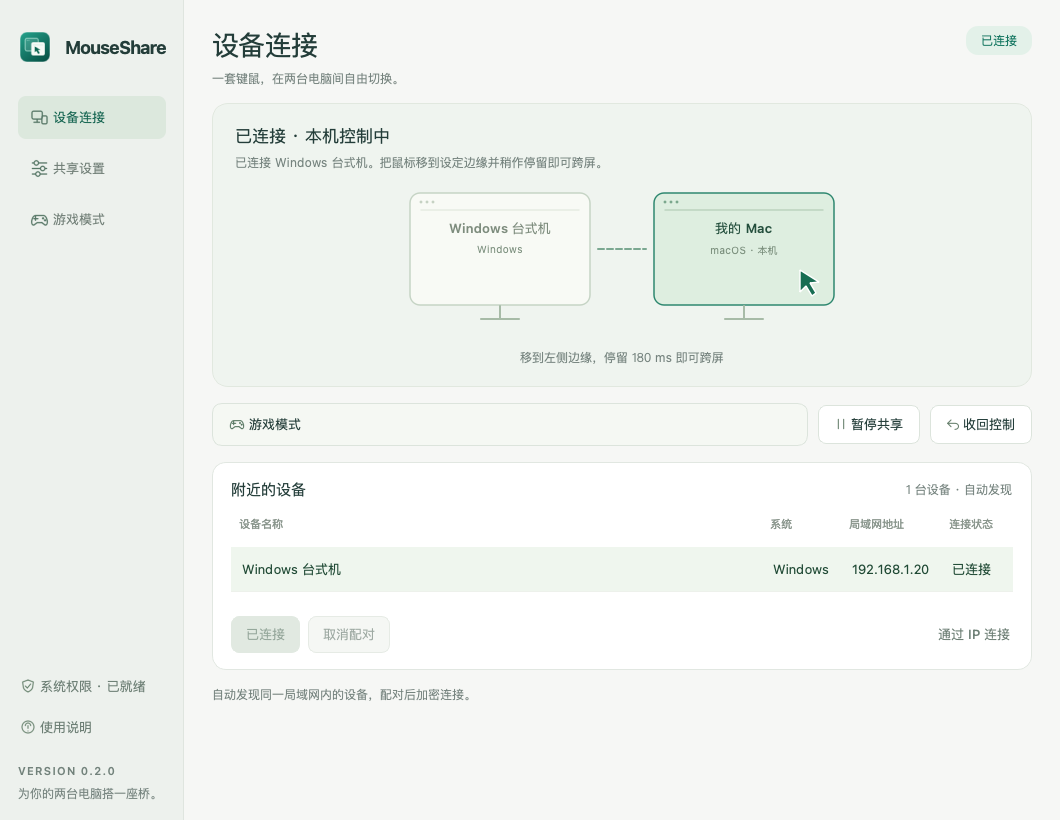
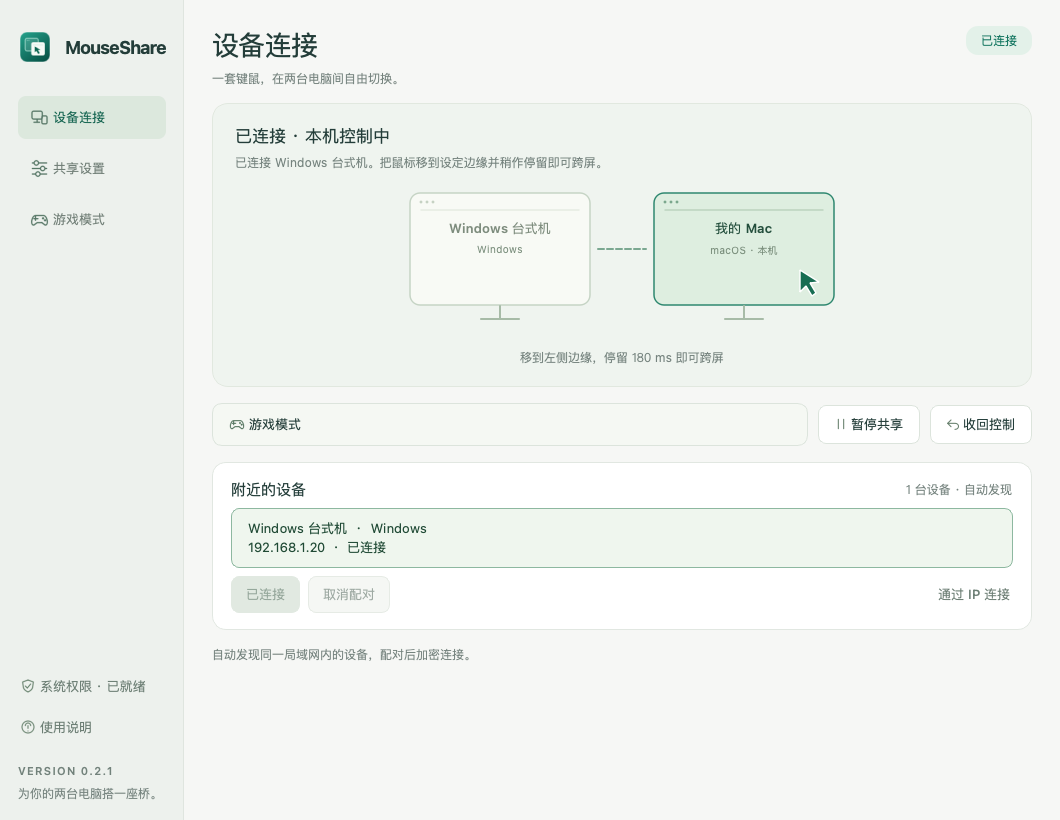
Use accessible device cards and finish the v0.2.1 desktop redesign

diff --git a/mouseshare/app.py b/mouseshare/app.py
@@ -8,12 +8,12 @@ import sys
 import time
 
 from PySide6.QtCore import QObject, QSize, QTimer, Qt, QUrl, Signal
-from PySide6.QtGui import QAction, QColor, QDesktopServices
+from PySide6.QtGui import QAction, QDesktopServices
 from PySide6.QtNetwork import QLocalServer, QLocalSocket
-from PySide6.QtWidgets import (QAbstractItemView, QApplication, QCheckBox, QComboBox, QDialog,
-                               QDoubleSpinBox, QFormLayout, QFrame, QHBoxLayout, QHeaderView,
+from PySide6.QtWidgets import (QApplication, QCheckBox, QComboBox, QDialog,
+                               QDoubleSpinBox, QFormLayout, QFrame, QHBoxLayout,
                                QLabel, QLineEdit, QMainWindow, QMenu, QMessageBox, QPushButton,
-                               QSpinBox, QSystemTrayIcon, QTableWidget, QTableWidgetItem, QStackedWidget, QButtonGroup,
+                               QSpinBox, QSystemTrayIcon, QStackedWidget, QButtonGroup,
                                QVBoxLayout, QWidget, QScrollArea)
 
 from . import __version__
@@ -207,23 +207,13 @@ class MainWindow(QMainWindow):
         self.discovery_label = text_label("自动发现已开启", "hint")
         top.addWidget(self.discovery_label)
         body.addLayout(top)
-        self.table = QTableWidget(0, 4)
-        self.table.setHorizontalHeaderLabels(["设备名称", "系统", "局域网地址", "连接状态"])
-        self.table.horizontalHeader().setSectionResizeMode(0, QHeaderView.ResizeMode.Stretch)
-        self.table.horizontalHeader().setSectionResizeMode(1, QHeaderView.ResizeMode.ResizeToContents)
-        self.table.horizontalHeader().setSectionResizeMode(2, QHeaderView.ResizeMode.ResizeToContents)
-        self.table.horizontalHeader().setSectionResizeMode(3, QHeaderView.ResizeMode.ResizeToContents)
-        self.table.horizontalHeader().setDefaultAlignment(Qt.AlignmentFlag.AlignLeft)
-        self.table.verticalHeader().hide()
-        self.table.verticalHeader().setDefaultSectionSize(45)
-        self.table.setShowGrid(False)
-        self.table.setSelectionBehavior(QAbstractItemView.SelectionBehavior.SelectRows)
-        self.table.setSelectionMode(QAbstractItemView.SelectionMode.SingleSelection)
-        self.table.setEditTriggers(QAbstractItemView.EditTrigger.NoEditTriggers)
-        self.table.setFixedHeight(100)
-        self.table.doubleClicked.connect(self.connect_selected)
-        self.table.itemSelectionChanged.connect(self.update_actions)
-        body.addWidget(self.table)
+        self.peer_buttons = {}
+        self.peer_group = QButtonGroup(self)
+        self.peer_group.setExclusive(True)
+        self.peer_group.buttonClicked.connect(self.update_actions)
+        self.peer_list = QVBoxLayout()
+        self.peer_list.setSpacing(6)
+        body.addLayout(self.peer_list)
         self.empty_label = text_label("在另一台电脑上打开 MouseShare，设备会自动出现在这里。", "hint", True)
         self.empty_label.setContentsMargins(4, 18, 4, 18)
         body.addWidget(self.empty_label)
@@ -481,28 +471,44 @@ class MainWindow(QMainWindow):
         rows = {key: dict(value, id=key, os="", seen=0) for key, value in trusted.items()}
         rows.update({key: peer for key, peer in self.peers.items()
                      if time.monotonic() - peer["seen"] < 8})
-        self.row_ids = list(rows)
-        self.table.setRowCount(len(rows))
-        for row, (peer_id, peer) in enumerate(rows.items()):
+        # Native buttons avoid Qt's Cocoa table selected-children bridge crash.
+        # Keep them stable through periodic discovery updates and retain selection.
+        for peer_id in list(self.peer_buttons):
+            if peer_id not in rows:
+                button = self.peer_buttons.pop(peer_id)
+                self.peer_group.removeButton(button)
+                self.peer_list.removeWidget(button)
+                button.hide()
+                button.deleteLater()
+        for peer_id, peer in rows.items():
+            button = self.peer_buttons.get(peer_id)
+            if button is None:
+                button = QPushButton()
+                button.setObjectName("peer")
+                button.setCheckable(True)
+                button.setMinimumHeight(68)
+                self.peer_buttons[peer_id] = button
+                self.peer_group.addButton(button)
+                self.peer_list.addWidget(button)
             status = "已配对" if peer_id in trusted else "待配对"
             session = self.network.session
             if session and session.peer_id == peer_id:
                 status = "已连接" if session.connected else "连接中"
             elif not peer.get("seen"):
                 status = "离线 · 已配对"
-            for column, value in enumerate([peer.get("name", "电脑"),
-                                            {"Darwin": "macOS", "Windows": "Windows"}.get(peer.get("os"), "—"),
-                                            peer.get("host", ""), status]):
-                item = QTableWidgetItem(str(value))
-                if column == 3:
-                    item.setForeground(QColor("#18775b" if status == "已连接" else "#819183"))
-                self.table.setItem(row, column, item)
+            os_name = {"Darwin": "macOS", "Windows": "Windows"}.get(peer.get("os"), "电脑")
+            name = peer.get("name", "电脑")
+            short_name = name if len(name) <= 30 else name[:29] + "…"
+            label = f"{short_name}  ·  {os_name}\n{peer.get('host', '')}  ·  {status}"
+            button.setText(label)
+            full_label = f"{name}，{os_name}，{peer.get('host', '')}，{status}"
+            button.setAccessibleName(full_label)
+            button.setToolTip(full_label)
             if peer_id == selected:
-                self.table.selectRow(row)
-        self.table.setVisible(bool(rows))
+                button.setChecked(True)
         self.empty_label.setVisible(not rows)
-        if rows and self.table.currentRow() < 0:
-            self.table.selectRow(0)
+        if rows and not self.peer_group.checkedButton():
+            next(iter(self.peer_buttons.values())).setChecked(True)
         self.discovery_label.setText(f"{len(rows)} 台设备 · 自动发现" if rows else "正在自动发现…")
         self.update_map()
         self.update_actions()
@@ -511,8 +517,8 @@ class MainWindow(QMainWindow):
                 self.dialogs[key][0].reject()
 
     def selected_id(self):
-        row = self.table.currentRow() if hasattr(self, "table") else -1
-        return self.row_ids[row] if hasattr(self, "row_ids") and 0 <= row < len(self.row_ids) else None
+        return next((peer_id for peer_id, button in getattr(self, "peer_buttons", {}).items()
+                     if button.isChecked()), None)
 
     def connect_selected(self):
         peer_id = self.selected_id()

diff --git a/mouseshare/ui.py b/mouseshare/ui.py
@@ -1,7 +1,9 @@
 """Presentation-only desktop widgets. No input capture or network behavior lives here."""
+from pathlib import Path
+
 from PySide6.QtCore import QPointF, QRectF, Qt
 from PySide6.QtGui import QColor, QFont, QPainter, QPainterPath, QPalette, QPen
-from PySide6.QtWidgets import QFrame, QLabel, QVBoxLayout, QWidget
+from PySide6.QtWidgets import QFrame, QLabel, QProxyStyle, QStyle, QVBoxLayout, QWidget
 
 STYLE = """
 QWidget { color: #233d39; font-size: 13px; }
@@ -42,16 +44,20 @@ QLineEdit, QComboBox, QSpinBox, QDoubleSpinBox { background: #fafcf9; color: #29
     selection-background-color: #c6e4d4; selection-color: #174a36; }
 QLineEdit:focus, QComboBox:focus, QSpinBox:focus, QDoubleSpinBox:focus { border-color: #298870; }
 QComboBox QAbstractItemView { background: #ffffff; color: #29433a; selection-background-color: #e0ede2; }
+QComboBox::drop-down { border: 0; width: 28px; }
+QComboBox::down-arrow { image: url("@assets@/chevron-down.png"); width: 14px; height: 14px; }
+QSpinBox::up-button, QDoubleSpinBox::up-button { border: 0; width: 22px; subcontrol-origin: border; subcontrol-position: top right; }
+QSpinBox::down-button, QDoubleSpinBox::down-button { border: 0; width: 22px; subcontrol-origin: border; subcontrol-position: bottom right; }
+QSpinBox::up-arrow, QDoubleSpinBox::up-arrow { image: url("@assets@/chevron-up.png"); width: 12px; height: 12px; }
+QSpinBox::down-arrow, QDoubleSpinBox::down-arrow { image: url("@assets@/chevron-down.png"); width: 12px; height: 12px; }
 QScrollArea { background: transparent; border: 0; }
 QScrollBar:vertical { background: transparent; width: 8px; margin: 3px 1px; }
 QScrollBar::handle:vertical { background: #cbd6cb; border-radius: 3px; min-height: 28px; }
 QScrollBar::add-line:vertical, QScrollBar::sub-line:vertical { height: 0; }
 QScrollBar::add-page:vertical, QScrollBar::sub-page:vertical { background: transparent; }
-QTableWidget { background: #ffffff; border: 0; gridline-color: #edf1eb; outline: 0;
-    selection-background-color: #eff6ee; selection-color: #204a35; }
-QTableWidget::item { padding: 8px; border-bottom: 1px solid #edf1eb; }
-QTableWidget::item:selected { background: #eff6ee; color: #204a35; }
-QHeaderView::section { background: #ffffff; border: 0; color: #8a968d; padding: 8px; font-size: 11px; text-align: left; }
+QPushButton#peer { text-align: left; background: #fafcf9; padding: 10px 16px; font-weight: 400; }
+QPushButton#peer:checked { background: #eff6ee; border-color: #8db8a0; color: #204a35; }
+QPushButton#peer:hover, QPushButton#peer:focus { border-color: #20836c; }
 QCheckBox { spacing: 10px; padding: 5px 0; }
 QMenu { background: #ffffff; border: 1px solid #dae3da; padding: 5px; }
 QMenu::item { padding: 9px 20px; border-radius: 4px; }
@@ -60,10 +66,49 @@ QToolTip { color: #ffffff; background: #244b3a; border: 0; padding: 6px; }
 """
 
 
+class DesktopStyle(QProxyStyle):
+    """Paint essential indicators without an optional SVG image plugin."""
+    def __init__(self):
+        super().__init__("Fusion")
+
+    def drawPrimitive(self, element, option, painter, widget=None):
+        pe = QStyle.PrimitiveElement
+        arrows = {pe.PE_IndicatorArrowDown, pe.PE_IndicatorArrowUp,
+                  pe.PE_IndicatorSpinDown, pe.PE_IndicatorSpinUp}
+        if element != pe.PE_IndicatorCheckBox and element not in arrows:
+            return super().drawPrimitive(element, option, painter, widget)
+        painter.save()
+        painter.setRenderHint(QPainter.RenderHint.Antialiasing)
+        enabled = bool(option.state & QStyle.StateFlag.State_Enabled)
+        rect = QRectF(option.rect)
+        if element == pe.PE_IndicatorCheckBox:
+            checked = bool(option.state & QStyle.StateFlag.State_On)
+            painter.setPen(QPen(QColor("#167c67" if checked and enabled else "#b9c9bf"), 1.2))
+            painter.setBrush(QColor("#167c67" if checked and enabled else "#fafcf9"))
+            painter.drawRoundedRect(rect.adjusted(1, 1, -1, -1), 3, 3)
+            if checked:
+                painter.setPen(QPen(QColor("#ffffff" if enabled else "#a7b6ac"), 1.7,
+                                    Qt.PenStyle.SolidLine, Qt.PenCapStyle.RoundCap, Qt.PenJoinStyle.RoundJoin))
+                path = QPainterPath(QPointF(rect.left() + rect.width() * .25, rect.center().y()))
+                path.lineTo(rect.left() + rect.width() * .44, rect.top() + rect.height() * .69)
+                path.lineTo(rect.left() + rect.width() * .76, rect.top() + rect.height() * .33)
+                painter.drawPath(path)
+        else:
+            x, y = rect.center().x(), rect.center().y()
+            direction = -1 if element in {pe.PE_IndicatorArrowUp, pe.PE_IndicatorSpinUp} else 1
+            painter.setPen(QPen(QColor("#617c6f" if enabled else "#b7c4ba"), 1.4,
+                                Qt.PenStyle.SolidLine, Qt.PenCapStyle.RoundCap, Qt.PenJoinStyle.RoundJoin))
+            path = QPainterPath(QPointF(x - 3, y - direction * 1.5))
+            path.lineTo(x, y + direction * 1.5)
+            path.lineTo(x + 3, y - direction * 1.5)
+            painter.drawPath(path)
+        painter.restore()
+
+
 def apply_theme(app):
     # Use a complete light palette so native controls also remain readable when
     # the operating system is in dark mode.
-    app.setStyle("Fusion")
+    app.setStyle(DesktopStyle())
     palette = QPalette()
     for role, color in {
         "Window": "#f6f7f5", "WindowText": "#233d39", "Base": "#ffffff",
@@ -76,7 +121,7 @@ def apply_theme(app):
     for role in (QPalette.ColorRole.Text, QPalette.ColorRole.ButtonText, QPalette.ColorRole.WindowText):
         palette.setColor(QPalette.ColorGroup.Disabled, role, QColor("#9ba69b"))
     app.setPalette(palette)
-    app.setStyleSheet(STYLE)
+    app.setStyleSheet(STYLE.replace("@assets@", (Path(__file__).parent / "assets").as_posix()))
 
 
 def text_label(text, role="", wrap=False):

diff --git a/scripts/build.py b/scripts/build.py
@@ -72,7 +72,7 @@ def main():
                "--name", "MouseShare", "--noupx", "--exclude-module", "tkinter",
                "--exclude-module", "unittest", "--icon", str(ASSETS / (
                    "MouseShare.icns" if sys.platform == "darwin" else "MouseShare.ico")),
-               "--collect-submodules", "mouseshare"]
+               "--collect-submodules", "mouseshare", "--collect-data", "mouseshare"]
     if sys.platform == "darwin":
         command += ["--osx-bundle-identifier", "io.github.makesail.mouseshare",
                     "--hidden-import", "ApplicationServices", "--hidden-import", "CoreFoundation"]
@@ -83,7 +83,7 @@ def main():
         import plistlib
         info = bundle / "Contents/Info.plist"
         content = plistlib.loads(info.read_bytes())
-        content.update({"CFBundleShortVersionString": "0.2.0", "CFBundleVersion": "4",
+        content.update({"CFBundleShortVersionString": "0.2.1", "CFBundleVersion": "5",
                         "LSMinimumSystemVersion": "13.0",
                         "NSLocalNetworkUsageDescription": "自动发现局域网中的电脑，并共享鼠标和键盘。",
                         "NSInputMonitoringUsageDescription": "读取键鼠输入以在您配对的电脑之间切换控制。",
@@ -99,7 +99,7 @@ def main():
         shutil.copytree(bundle, stage / bundle.name, symlinks=True)
         (stage / "Applications").symlink_to("/Applications")
         shutil.copyfile(ROOT / "docs/INSTALL-macOS.txt", stage / "安装说明.txt")
-        target = DIST / f"MouseShare-0.2.0-macOS-{platform.machine()}.dmg"
+        target = DIST / f"MouseShare-0.2.1-macOS-{platform.machine()}.dmg"
         target.unlink(missing_ok=True)
         run("hdiutil", "create", "-volname", "MouseShare", "-srcfolder", stage,
             "-ov", "-format", "UDZO", target)
@@ -109,7 +109,7 @@ def main():
         compiler = Path(r"C:\Program Files (x86)\Inno Setup 6\ISCC.exe")
         run(compiler, ROOT / "packaging/windows.iss")
         shutil.copyfile(ROOT / "docs/INSTALL-Windows.txt", DIST / "MouseShare/安装说明.txt")
-        shutil.make_archive(str(DIST / "MouseShare-0.2.0-Windows-x64-portable"), "zip",
+        shutil.make_archive(str(DIST / "MouseShare-0.2.1-Windows-x64-portable"), "zip",
                             DIST, "MouseShare")
     else:
         raise RuntimeError("Build on Windows or macOS")

diff --git a/tests/test_ui.py b/tests/test_ui.py
@@ -1,5 +1,6 @@
 """UI reorganizations must preserve saved pairing and all sharing controls."""
 import os
+import time
 
 os.environ.setdefault("QT_QPA_PLATFORM", "offscreen")
 
@@ -68,3 +69,25 @@ def test_game_and_recovery_controls_keep_engine_commands(window, app):
     app.processEvents()
     footer = window.saved_labels[0].parentWidget()
     assert footer.isVisible() and footer.geometry().bottom() < window.stack.height()
+
+
+def test_discovery_updates_preserve_selected_accessible_device(window, app):
+    peer_id = "a" * 64
+    window.refresh_peers()
+    button = window.peer_buttons[peer_id]
+    window.found_peer(dict(id=peer_id, name="Renamed PC", host="192.168.1.30", port=24872,
+                           os="Windows", seen=time.monotonic()))
+    for _ in range(3):
+        window.refresh_peers()
+        app.processEvents()
+        assert window.peer_buttons[peer_id] is button
+        assert window.selected_id() == peer_id
+    assert "Renamed PC" in button.text() and "192.168.1.30" in button.text()
+    assert "Renamed PC" in button.accessibleName()
+    other = "b" * 64
+    window.found_peer(dict(id=other, name="Temporary PC", host="192.168.1.40", port=24872,
+                           os="Windows", seen=time.monotonic()))
+    window.peers[other]["seen"] -= 10
+    window.refresh_peers()
+    assert len(window.peer_buttons) == 1 and window.selected_id() == peer_id
+    assert window.peer_buttons[peer_id] is button

diff --git a/mouseshare/__init__.py b/mouseshare/__init__.py
@@ -1,4 +1,4 @@
 """MouseShare: LAN keyboard and mouse sharing."""
 
-__version__ = "0.2.0"
+__version__ = "0.2.1"
 

diff --git a/docs/DESIGN.md b/docs/DESIGN.md
@@ -9,3 +9,5 @@ MouseShare 是日常常驻的双机工具。首页优先展示连接、设备位
 应用、窗口、安装包图标均来自 `mouseshare/branding.py`；菜单栏使用专用单色模板。修改图标时同时检查 16/32/128/512 像素，避免运行图标与安装图标分叉。
 
 每次布局调整，运行 `python scripts/preview.py` 渲染真实 Qt 控件，检查连接、离线、权限、游戏锁定和四种屏幕方向。截图仅使用隔离的演示数据。实际安装后再用原生界面检查导航、状态更新、游戏开关和自动重连。保留配对数据；跨屏修复继续按 `ACCEPTANCE.md` 验收。
+
+附近设备使用可选择的原生按钮卡片，保持键盘导航及完整的可访问名称；发现和状态刷新原位更新已有卡片。Qt 6.10.3 的 Cocoa 表格 `accessibilitySelectedChildren` 在原生检查时出现过悬空对象崩溃，禁止恢复为该表格实现。Mac 原生验收必须在设备已选中时，跨越多次发现刷新读取辅助功能树并切换页面；离屏渲染无法覆盖 Cocoa 可访问性桥接。

diff --git a/docs/RELEASE.md b/docs/RELEASE.md
@@ -1,6 +1,7 @@
-MouseShare v0.2.0：重新设计桌面界面与应用图标。
+MouseShare v0.2.1：重新设计桌面界面与应用图标。
 
 - 浅色界面、青绿色点缀；设备连接、共享设置和游戏模式分为三个页面。
+- 附近设备采用可选择卡片，修复 Mac 在原生辅助功能读取选中表格时的崩溃。
 - 首页显示实时双屏位置、连接状态和当前控制方向，手动 IP 连接按需展开。
 - 设置页固定保存按钮，校验反馈在当前页面可见；游戏模式保留首页快捷开关。
 - 全新的双屏光标图标；运行程序和安装包使用同一套矢量画稿，Mac 菜单栏使用单色图标。
